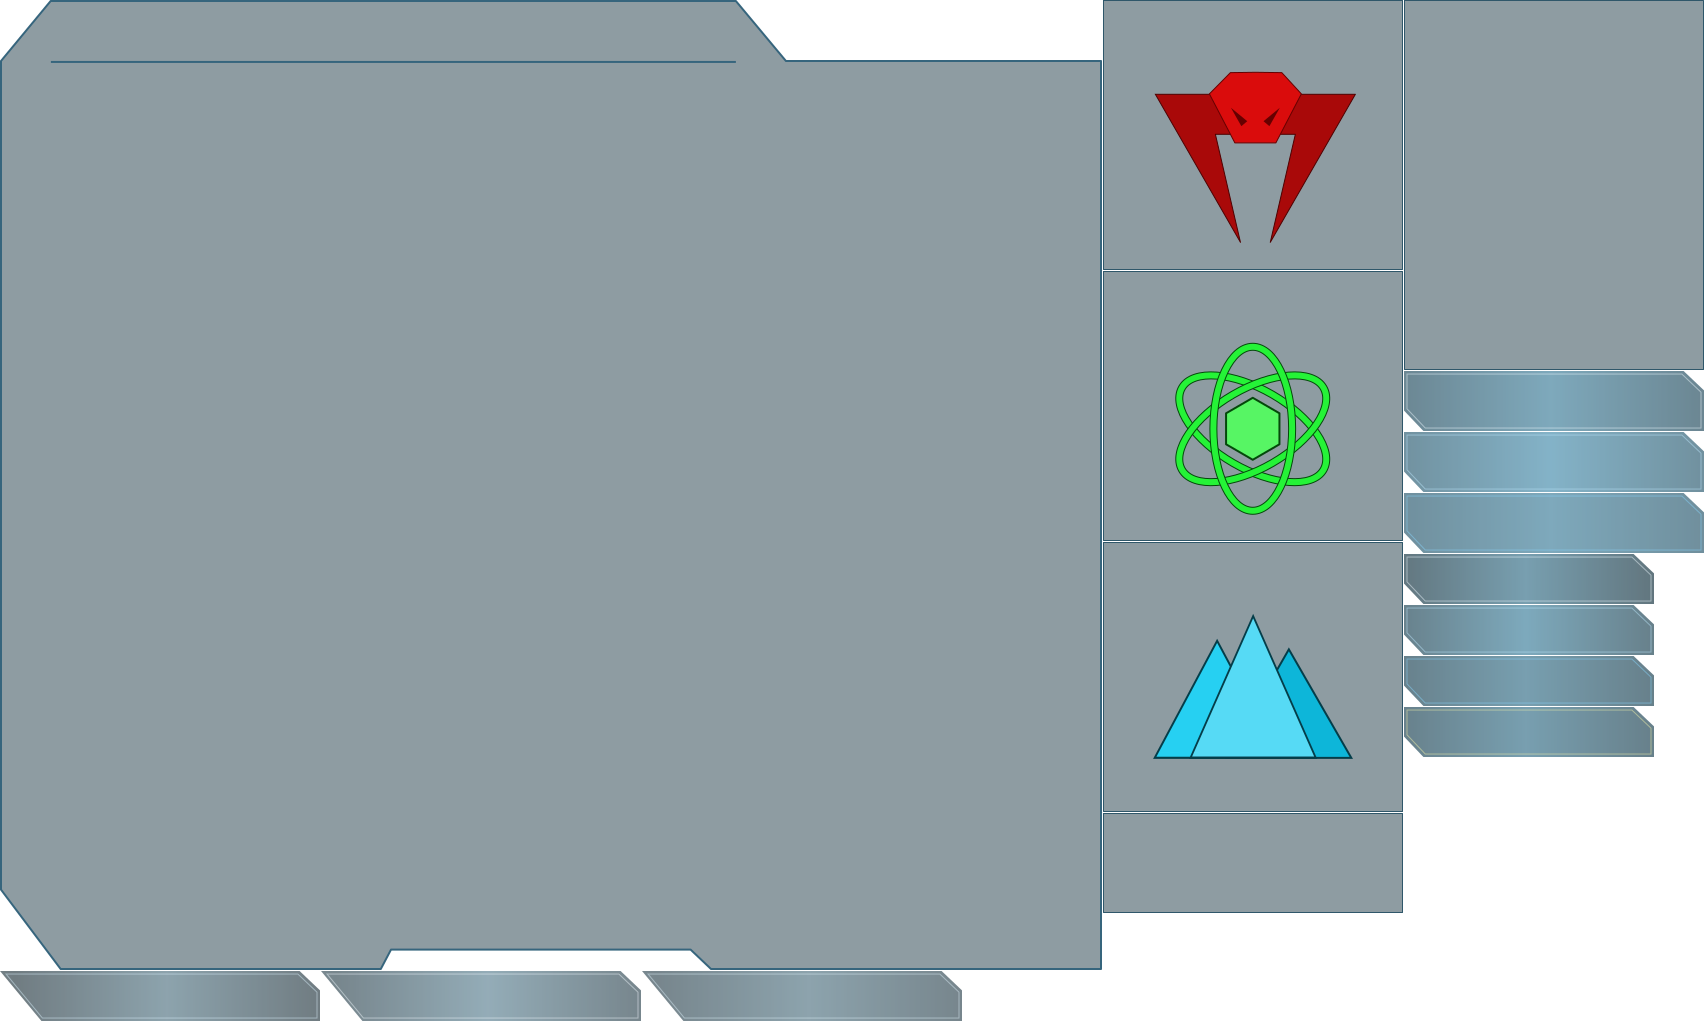
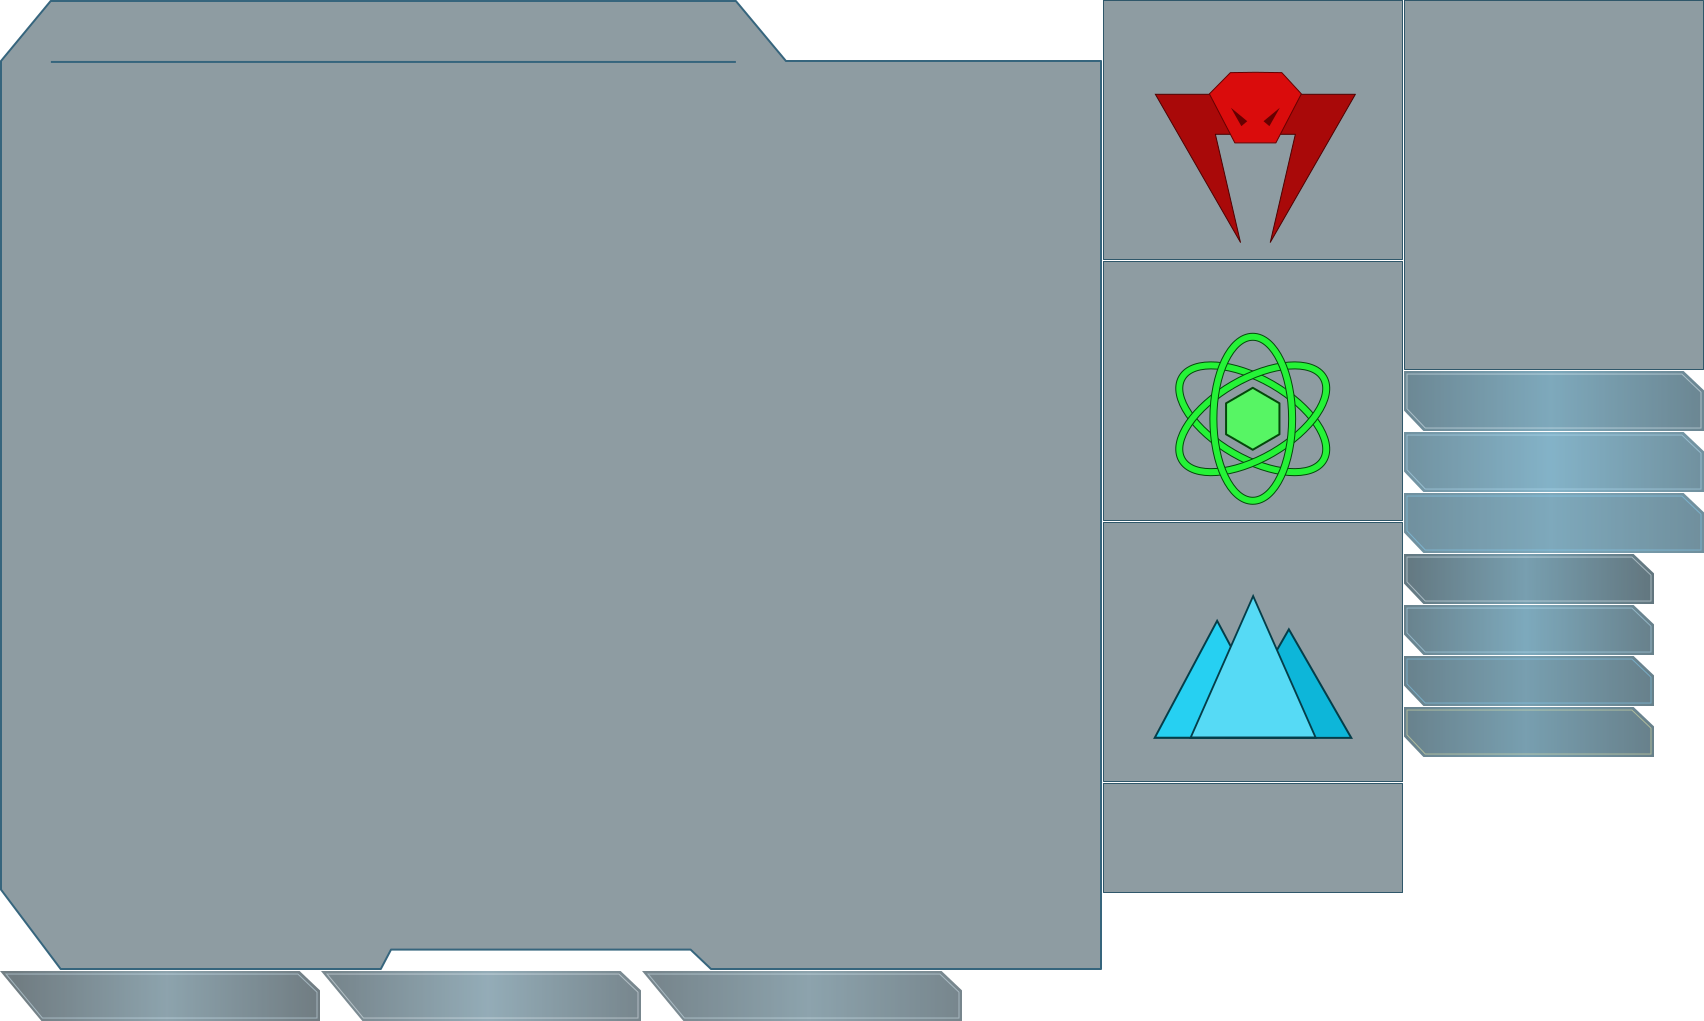
Change panels in faction selection screen

diff --git a/src/Screens/ScreenFactionSelection.cpp b/src/Screens/ScreenFactionSelection.cpp
@@ -175,7 +175,7 @@ ScreenFactionSelection::ScreenFactionSelection(Game * game)
 
     // PANEL ATTRIBUTES
 
-    panelStatsH = AddPanelStats(x, y, { 5, 10, 3, 8 }, panelMain);
+    panelStatsH = AddPanelStats(x, y, { 6, 9, 3, 8 }, panelMain);
 
     y += panelStatsH + marginPanelsH;
 
@@ -235,7 +235,7 @@ ScreenFactionSelection::ScreenFactionSelection(Game * game)
 
     // PANEL ATTRIBUTES
 
-    panelStatsH = AddPanelStats(x, y, { 9, 5, 5, 5 }, panelMain);
+    panelStatsH = AddPanelStats(x, y, { 9, 6, 5, 6 }, panelMain);
 
     y += panelStatsH + marginPanelsH;
 
@@ -275,23 +275,23 @@ void ScreenFactionSelection::InitSprites()
     {
         // PANELS
         { 0, 0, 1102, 970 },
-        { 1103, 0, 300, 270 },
-        { 1103, 271, 300, 270 },
-        { 1103, 542, 300, 270 },
-        { 1103, 813, 300, 100 },
+        { 1103, 0, 300, 260 },
+        { 1103, 261, 300, 260 },
+        { 1103, 522, 300, 260 },
+        { 1103, 783, 300, 110 },
         { 1404, 0, 300, 370 },
 
         // ATTRIBUTES BAR
-        { 1103, 914, 10, 12 },
-        { 1114, 914, 10, 14 },
-        { 1125, 914, 10, 16 },
-        { 1136, 914, 10, 18 },
-        { 1147, 914, 10, 20 },
-        { 1158, 914, 10, 22 },
-        { 1169, 914, 10, 24 },
-        { 1180, 914, 10, 26 },
-        { 1191, 914, 10, 28 },
-        { 1202, 914, 10, 30 },
+        { 1103, 894, 10, 12 },
+        { 1114, 894, 10, 14 },
+        { 1125, 894, 10, 16 },
+        { 1136, 894, 10, 18 },
+        { 1147, 894, 10, 20 },
+        { 1158, 894, 10, 22 },
+        { 1169, 894, 10, 24 },
+        { 1180, 894, 10, 26 },
+        { 1191, 894, 10, 28 },
+        { 1202, 894, 10, 30 },
 
         // BACK BUTTON
         { 0, 971, 320, 50 },
